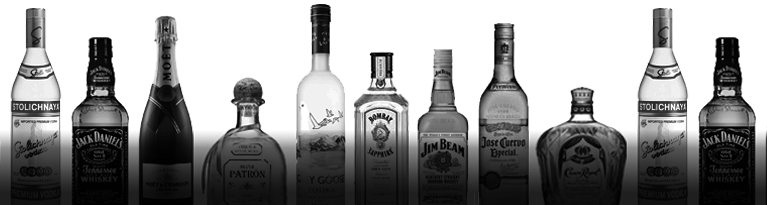
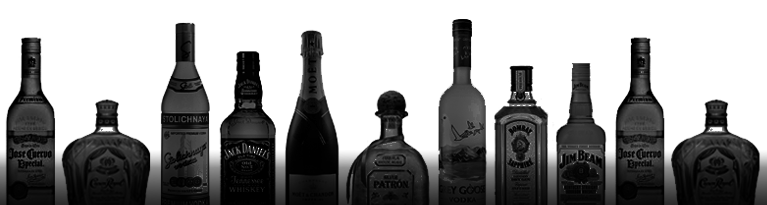
Realigned bottle service photos

diff --git a/css/theme-styles.css b/css/theme-styles.css
@@ -3074,3 +3074,22 @@ div.line {
 .follow-us{
 	margin-top: 53px;
 }
+
+.bottle-service-header{
+	margin-top: -35px !important;
+	position: relative !important;
+}
+
+.bottle-service-img{
+	margin-top: -150px;
+}
+
+@media screen and (max-width: 767px){
+	.bottle-service-header{
+		margin-top: 65px !important;
+	}
+
+	.bottle-service-img{
+		margin-top: -110px !important;
+	}
+}

diff --git a/index.php b/index.php
@@ -401,15 +401,15 @@
     <section class="page-block" id="bottle-service">
     	<div class="container">
         <div class="row page-header">
-          <img src="img/images_web/Bottle-Service.png" class="section-header" alt="Bottle Service"/>
+          <img src="img/images_web/Bottle-Service.png" class="section-header bottle-service-header" alt="Bottle Service"/>
         </div>
         <div class="row">
           <script type="text/javascript">
             if(window.innerWidth>767){
-              document.write('<img src="img/food/Bottle-Service.png" class="large-photo" alt="Bottle Service"/>')
+              document.write('<img src="img/food/Bottle-Service.png" class="large-photo bottle-service-img" alt="Bottle Service"/>')
             }
             else{
-              document.write('<img src="img/food/Bottle-Service-Small.png" class="large-photo-mobile" alt="Bottle Service"/>')
+              document.write('<img src="img/food/Bottle-Service-Small.png" class="large-photo-mobile bottle-service-img" alt="Bottle Service"/>')
             }
           </script>
         	<div class="col-lg-6 col-md-6 col-sm-6 bottle-service-adj">
